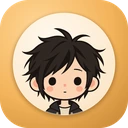
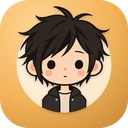
头像图标改为叠加式：头发探出内圆，双眼落在图标正中
参考豆包：内圆直径 74%，人物以双眼为视觉重心放在图标中心，内圆上半部
不裁切让头发探出，下半部由内圆底边截断身体；源图身体过短，导出前逐列向下延伸。

Claude-Session: https://claude.ai/code/session_01DxF599FULx8kT6Ch4pjp6T

diff --git a/CHANGELOG.md b/CHANGELOG.md
@@ -1988,7 +1988,7 @@
 ## 2026-09-30 v4.10.1 —— 补丁（x.y.Z）：头像图标改为「外框 + 内圆」，人物居中
 
 - **问题**：人物在旧图标里偏下：旧版是把去底头像直接压在琥珀圆角方块上，并靠 `margin-top: 14%`（Flutter 为底部对齐）把肩膀贴到底边，视觉重心明显偏低。
-- **修复**：参考豆包式「外框 + 内圆」：琥珀渐变圆角方块外框（圆角 22.5%），中间浅奶油色内圆（直径 80%），人物头部居中、肩膀被内圆底边裁切；由同一张 1024px 母版导出各尺寸，图标自带底色，所以各端不再叠加底色、边框、内边距或偏移。
+- **修复**：参考豆包式「外框 + 内圆」：琥珀渐变圆角方块外框（圆角 22.5%），中间浅奶油色内圆（直径 74%）；人物双眼落在图标正中，头发可以探出内圆上沿形成叠加感，身体被内圆底边截断（源图只画到肩膀，导出时把身体逐列向下延伸后再裁）；由同一张 1024px 母版导出各尺寸，图标自带底色，所以各端不再叠加底色、边框、内边距或偏移。
   - `web_client/css/brand/` 重新导出 `avatar-128.webp`、`favicon-32.png`、`apple-touch-icon.png`。
   - `web_client/css/style.css` 末尾的品牌标记规则：`.brand-mark` / `.welcome-mark` 去掉底色、边框与图片偏移，图片铺满，圆角 22.5%，光晕保留；`:root` 外仍无 hex / rgb 字面量。
   - 四个页面与 `js/chat.js` 的头像、网页标签图标引用加 `?v=20260930`，样式/脚本版本号改为 `lamp-node-20260930`；`DESIGN.md` 同步说明。
